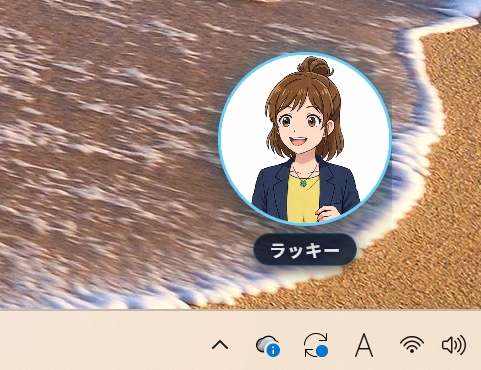
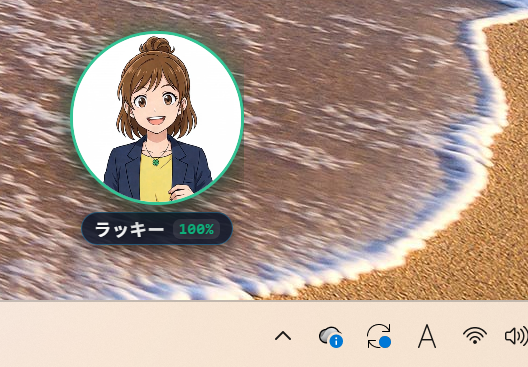
feat: マスコットDevTools起動メニューの追加と枠色・未読バッジ状態比較スクショによるREADME更新 (Closes #21)

diff --git a/src-tauri/src/lib.rs b/src-tauri/src/lib.rs
@@ -1042,6 +1042,16 @@ async fn toggle_minimize_restore(app: AppHandle) -> Result<String, String> {
 }
 
 #[tauri::command]
+async fn open_mascot_devtools(app: AppHandle) -> Result<bool, String> {
+    if let Some(main_win) = app.get_webview_window("main") {
+        main_win.open_devtools();
+        Ok(true)
+    } else {
+        Err("main window not found".to_string())
+    }
+}
+
+#[tauri::command]
 async fn open_session_devtools(app: AppHandle) -> Result<bool, String> {
     let session = ensure_session_window(&app)?;
     session.open_devtools();
@@ -1096,7 +1106,8 @@ pub fn run() {
             // システムトレイの初期化
             let toggle_app = MenuItem::with_id(handle, "toggle_app", "セッション画面 ⇄ マスコット (Ctrl+Shift+M)", true, None::<&str>)?;
             let open_session = MenuItem::with_id(handle, "open_session", "セッション画面を開く (公式UI)", true, None::<&str>)?;
-            let open_devtools = MenuItem::with_id(handle, "open_devtools", "セッションの開発者ツールを開く", true, None::<&str>)?;
+            let item_open_mascot_devtools = MenuItem::with_id(handle, "open_mascot_devtools", "マスコットの開発者ツールを開く", true, None::<&str>)?;
+            let item_open_session_devtools = MenuItem::with_id(handle, "open_devtools", "セッションの開発者ツールを開く", true, None::<&str>)?;
             let toggle_mascot = MenuItem::with_id(handle, "toggle_mascot", "マスコットモード (アバター単体)", true, None::<&str>)?;
             let toggle_size = MenuItem::with_id(handle, "toggle_size", "（旧）中・小画面切替", true, None::<&str>)?;
             let open_browser = MenuItem::with_id(handle, "open_browser", "ブラウザで Muse を開く", true, None::<&str>)?;
@@ -1107,7 +1118,8 @@ pub fn run() {
                 &[
                     &toggle_app,
                     &open_session,
-                    &open_devtools,
+                    &item_open_mascot_devtools,
+                    &item_open_session_devtools,
                     &toggle_mascot,
                     &toggle_size,
                     &open_browser,
@@ -1131,6 +1143,12 @@ pub fn run() {
                         let app_clone = app.clone();
                         tauri::async_runtime::spawn(async move {
                             let _ = open_or_show_session(app_clone).await;
+                        });
+                    }
+                    "open_mascot_devtools" => {
+                        let app_clone = app.clone();
+                        tauri::async_runtime::spawn(async move {
+                            let _ = open_mascot_devtools(app_clone).await;
                         });
                     }
                     "open_devtools" => {
@@ -1262,6 +1280,7 @@ pub fn run() {
             open_in_browser,
             open_or_show_session,
             hide_session,
+            open_mascot_devtools,
             open_session_devtools,
             get_session_status,
             drag_window,
